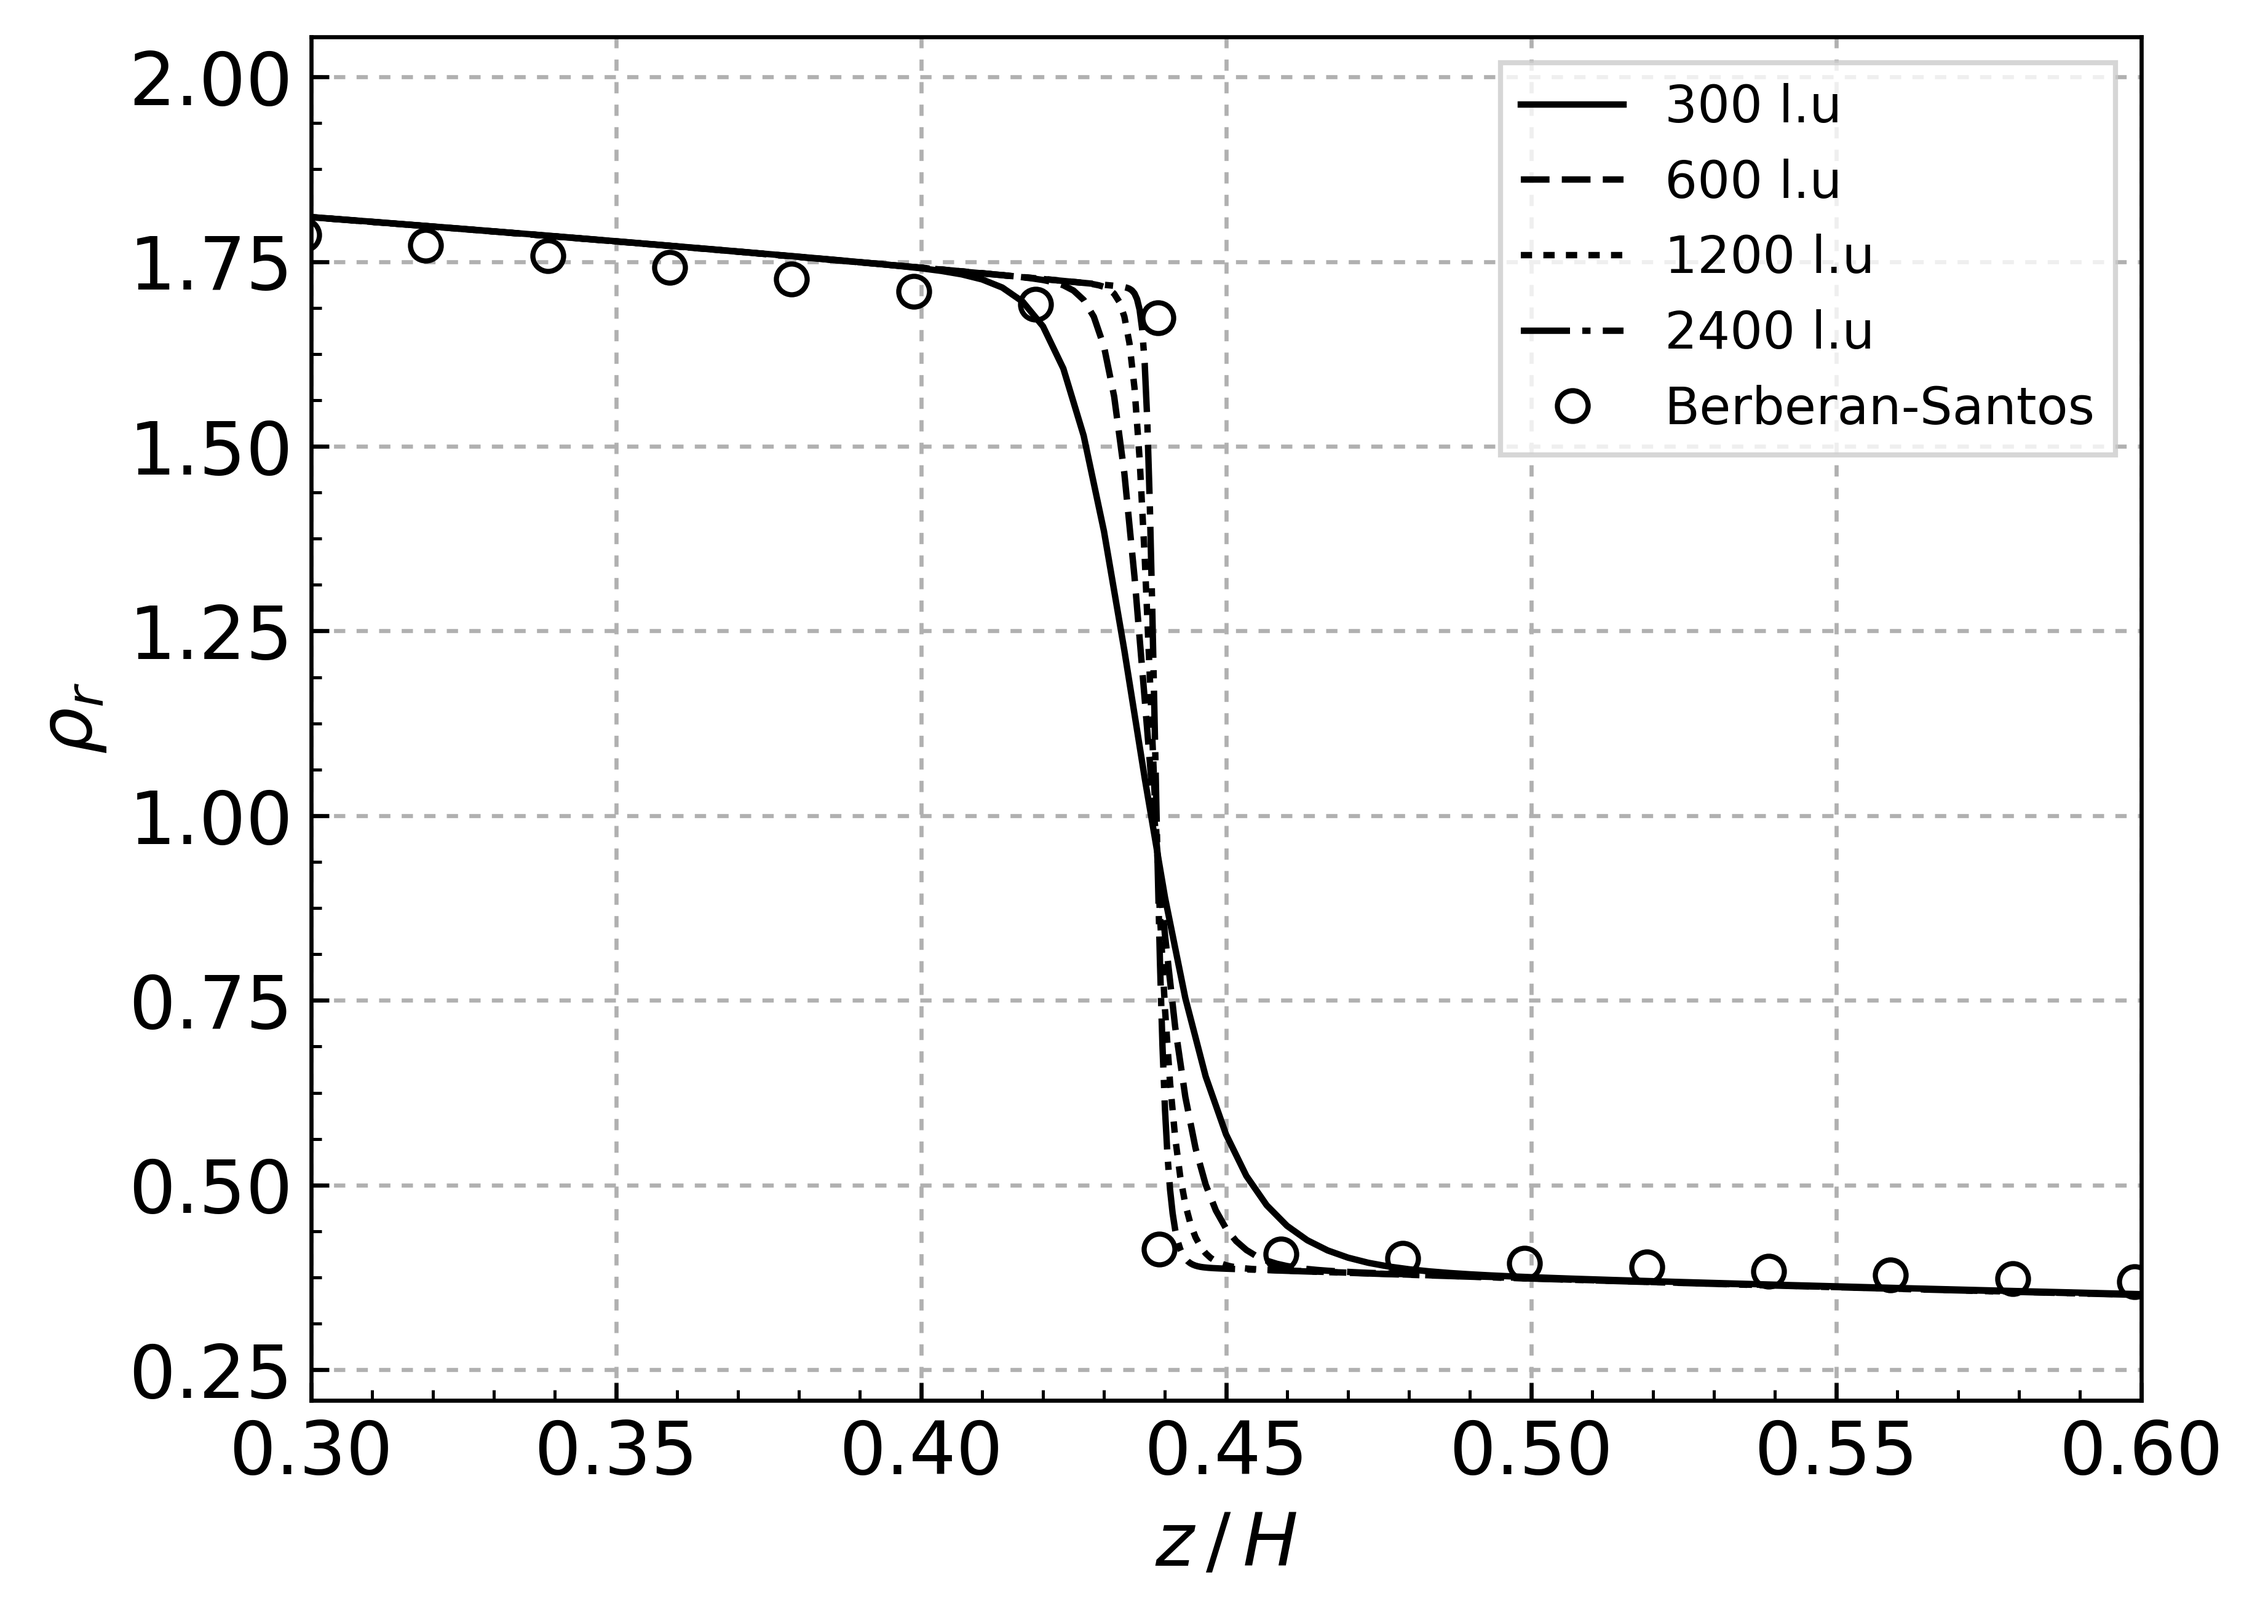
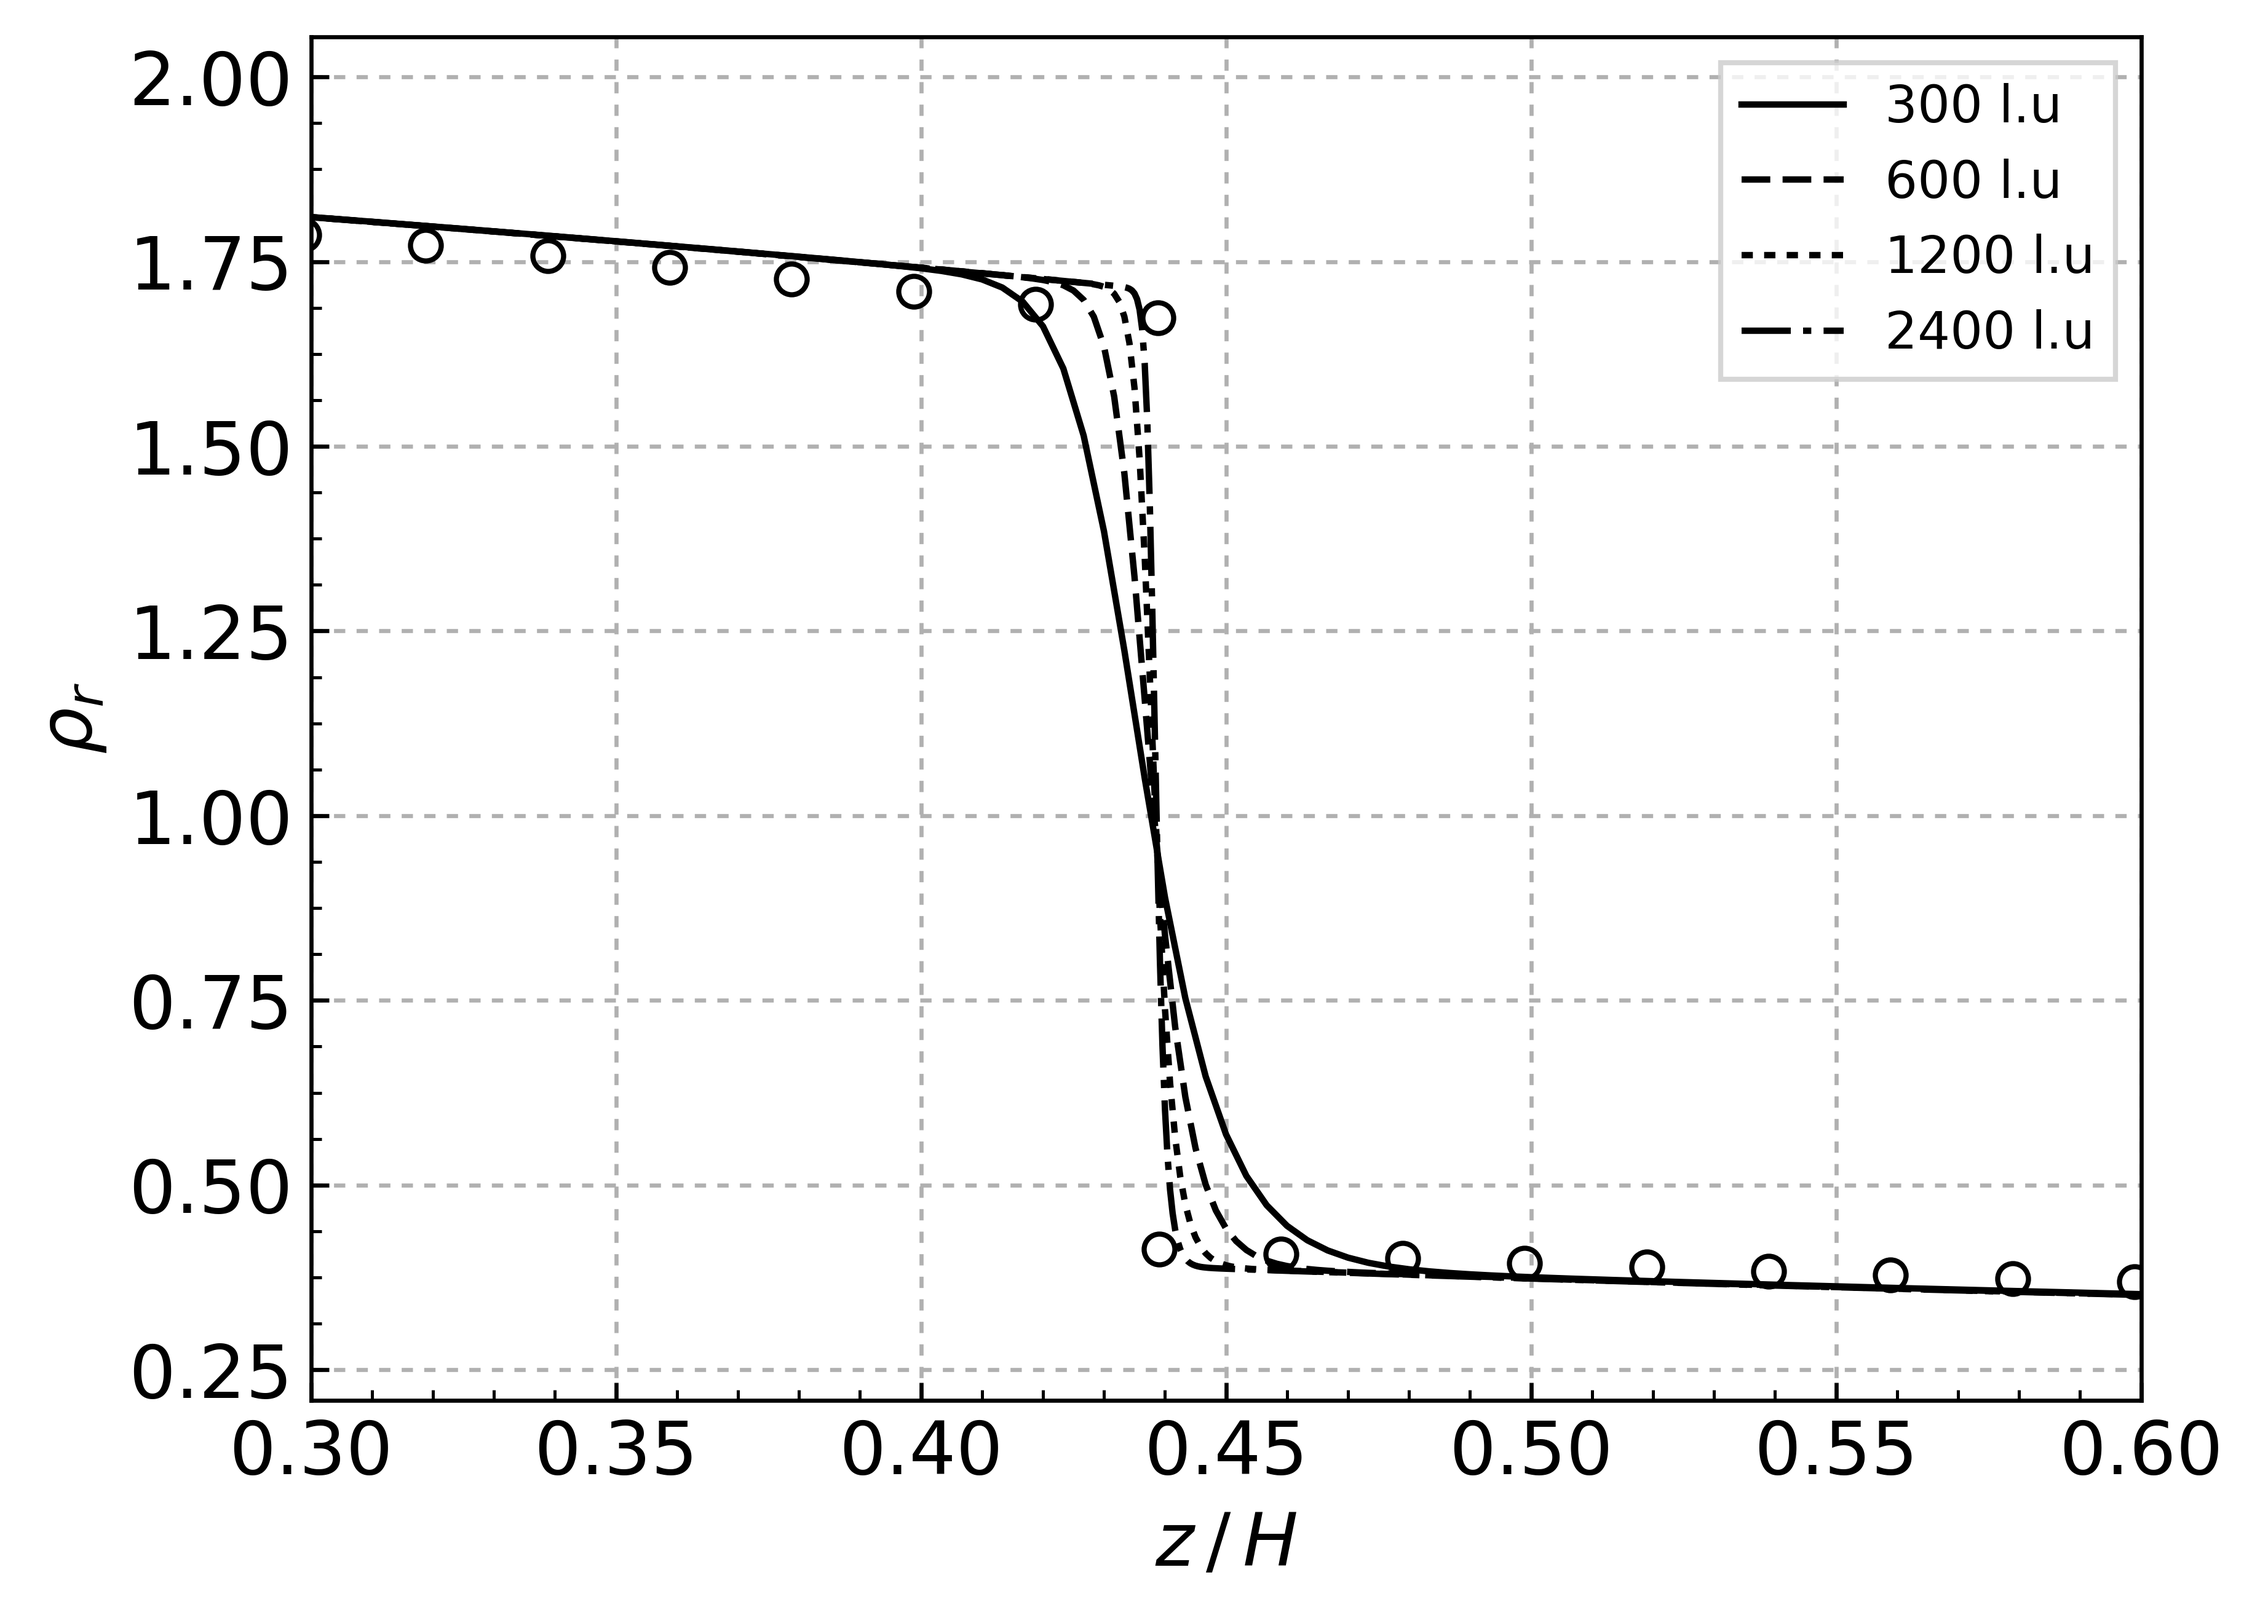
Cambios en labels

Changed region(s): [[0.6514, 0.0312, 0.9306, 0.2804]]

diff --git a/11/figura.py b/11/figura.py
@@ -68,7 +68,7 @@ crg = crg[::100]
 
 plt.plot( [  z/er[-1] for z in erl  ],
           crl,
-          label = 'Berberan-Santos',
+          # label = 'Berberan-Santos',
           linestyle = 'None',
           marker = 'o',
           mfc = 'None')

diff --git a/12/figura.py b/12/figura.py
@@ -71,7 +71,7 @@ crg = crg[::100]
 
 plt.plot( [  z/er[-1] for z in erl  ],
           crl,
-          label = 'Berberan-Santos',
+          # label = 'Berberan-Santos',
           linestyle = 'None',
           marker = 'o',
           mfc = 'None')

diff --git a/8/figura.py b/8/figura.py
@@ -99,9 +99,9 @@ plt.plot( file6[1],
 
 # Labels
 
-plt.xlabel('$T_r$')
+plt.xlabel(r'$T_r$')
 
-plt.ylabel('Liquid volume fraction')
+plt.ylabel(r'$z \, / \, H$')
 
 # plt.legend(loc='best')        
 
